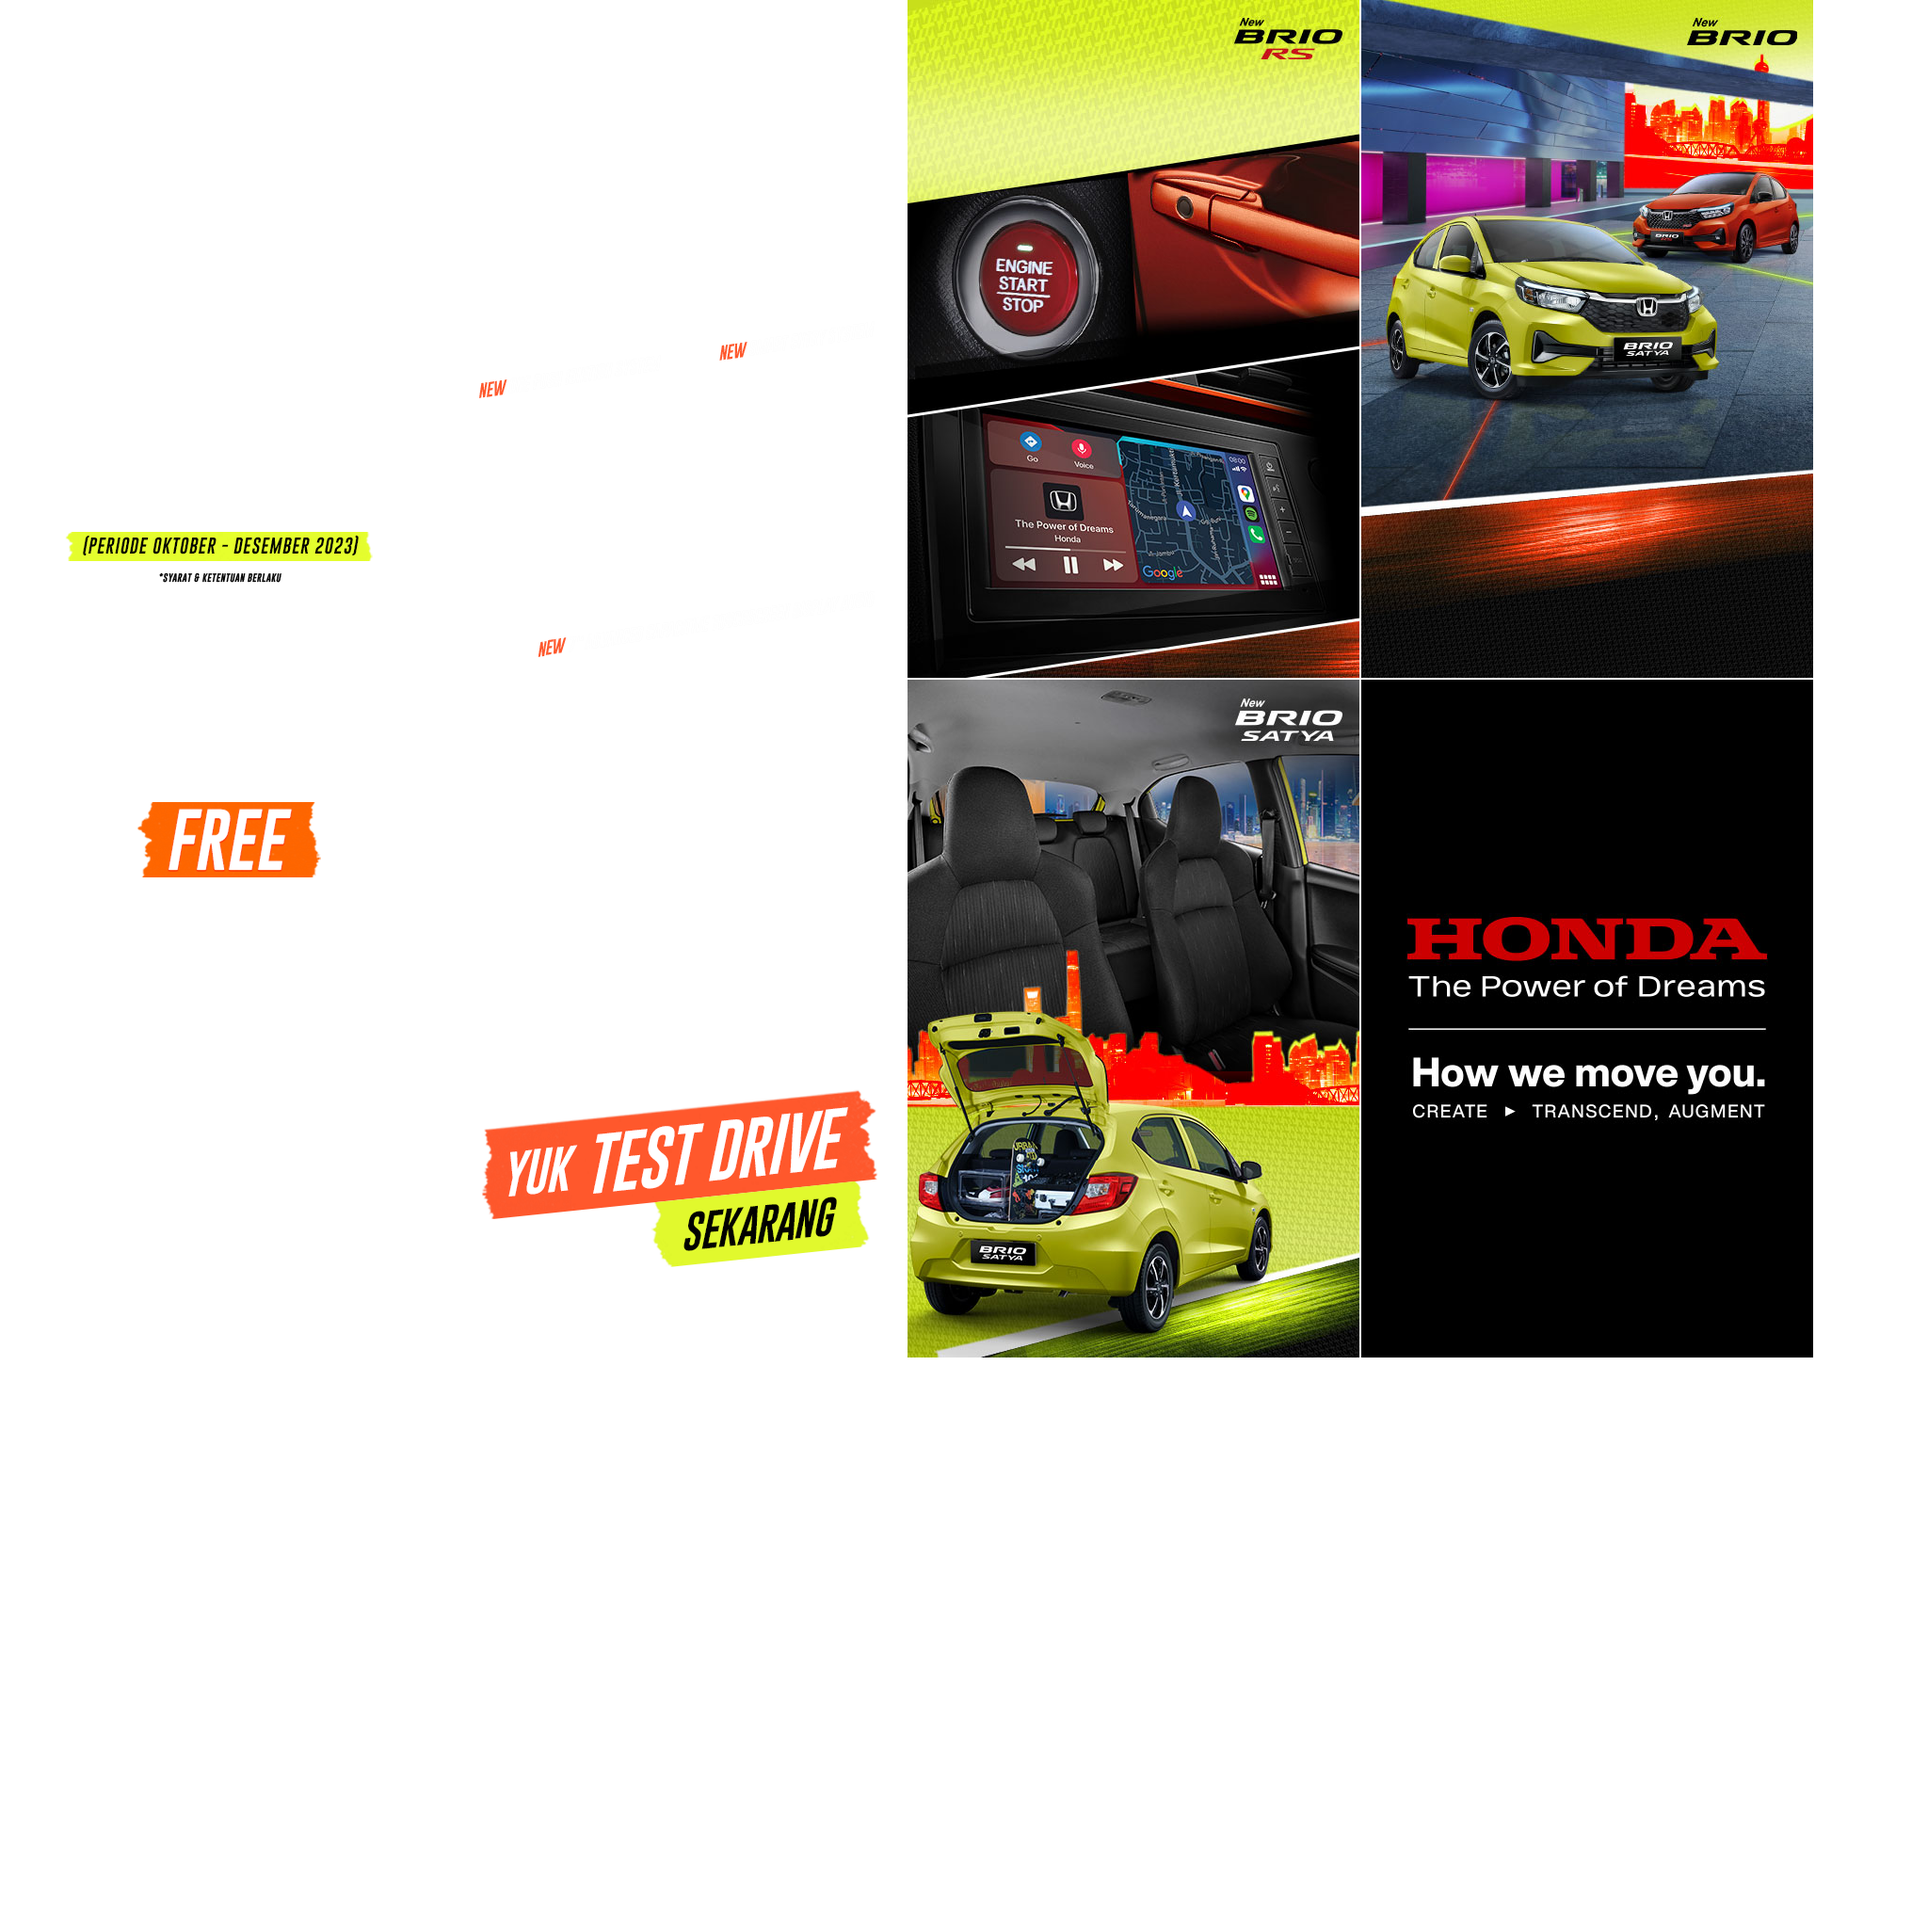
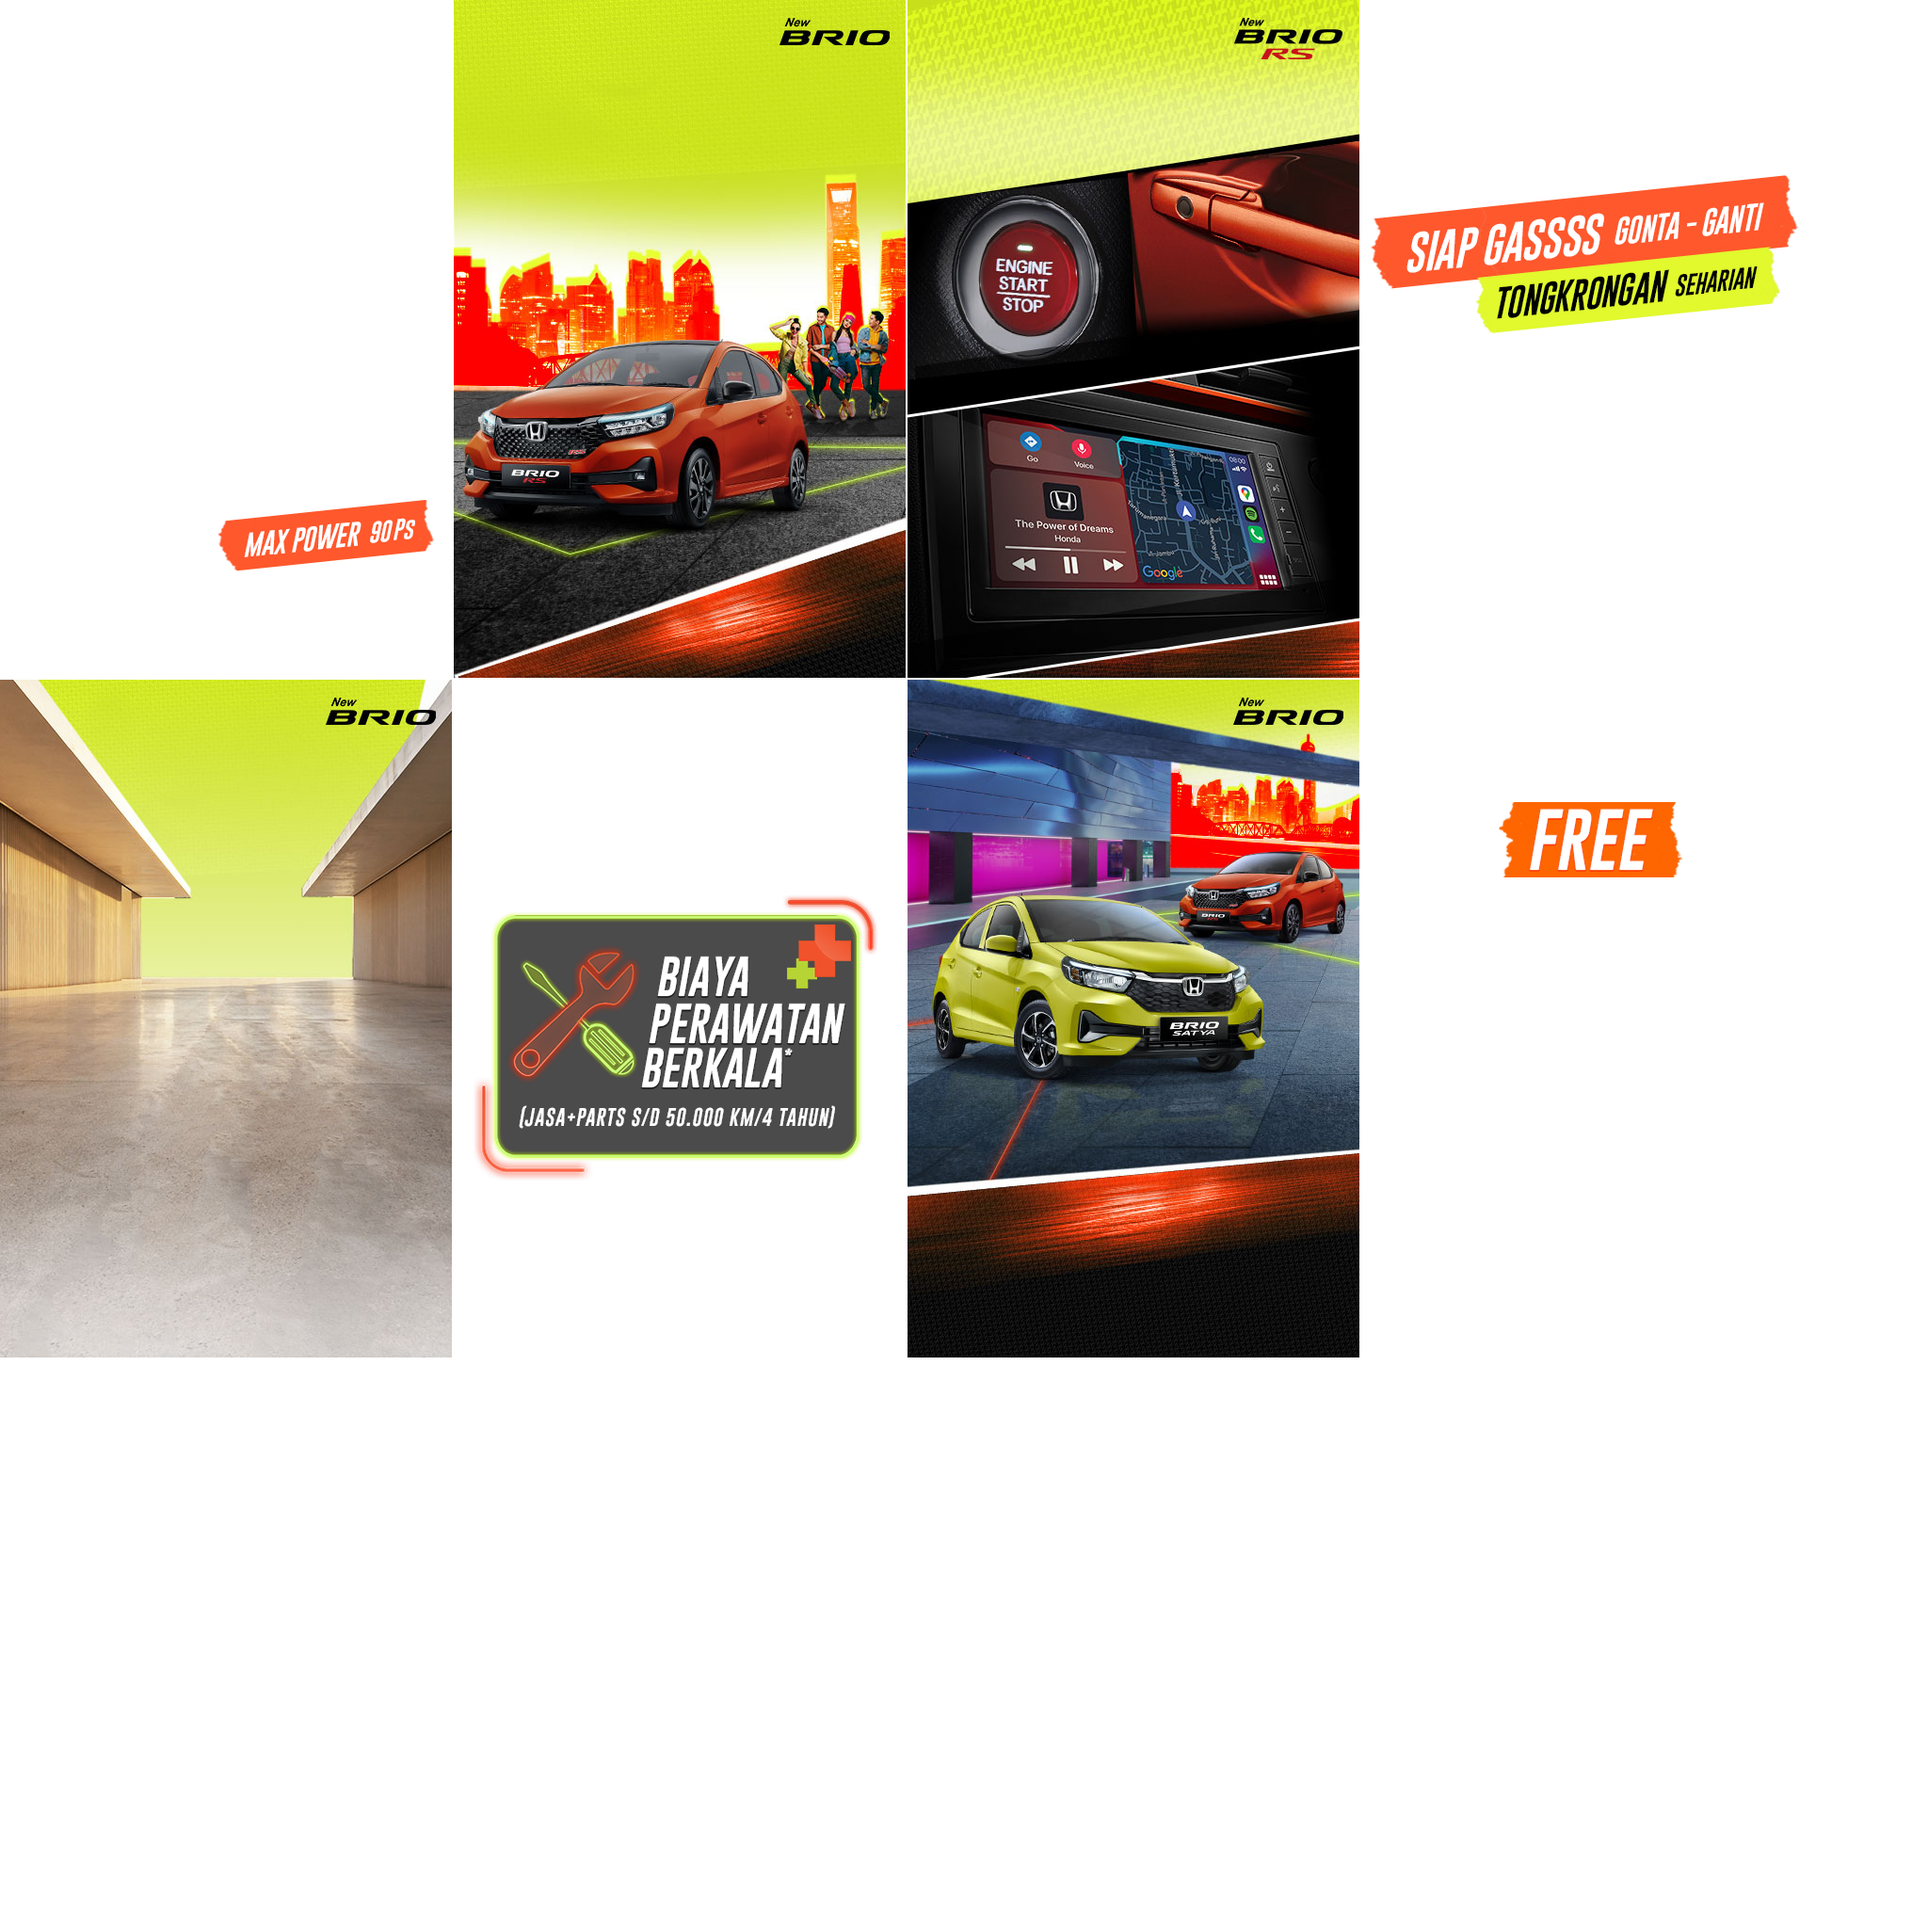
awd

diff --git a/idntimes/cpc/honda/brio-november/src/320x480/index.js b/idntimes/cpc/honda/brio-november/src/320x480/index.js
@@ -3,9 +3,9 @@
 var p; // shortcut to reference prototypes
 var lib={};var ss={};var img={};
 lib.ssMetadata = [
-		{name:"index_atlas_", frames: [[964,0,480,720],[482,0,480,720],[964,722,480,720],[0,722,480,720],[0,0,480,720],[1446,0,480,720],[482,722,480,720],[1446,722,480,720]]},
-		{name:"index_atlas_2", frames: [[1446,722,480,720],[0,722,480,720],[482,722,480,720],[0,0,480,720],[964,722,480,720],[482,0,480,720],[1446,0,480,720],[964,0,480,720]]},
-		{name:"index_atlas_3", frames: [[0,0,480,720],[482,0,480,720]]}
+		{name:"index_atlas_", frames: [[482,0,480,720],[964,0,480,720],[1446,0,480,720],[0,0,480,720],[0,722,480,720],[1446,722,480,720],[482,722,480,720],[964,722,480,720]]},
+		{name:"index_atlas_2", frames: [[964,0,480,720],[964,722,480,720],[0,722,480,720],[482,0,480,720],[1446,0,480,720],[482,722,480,720],[0,0,480,720],[1446,722,480,720]]},
+		{name:"index_atlas_3", frames: [[0,0,480,720],[0,722,480,720],[482,0,480,720]]}
 ];
 
 
@@ -21,14 +21,14 @@ lib.ssMetadata = [
 
 
 (lib._1text = function() {
-	this.initialize(ss["index_atlas_3"]);
-	this.gotoAndStop(1);
+	this.initialize(ss["index_atlas_2"]);
+	this.gotoAndStop(0);
 }).prototype = p = new cjs.Sprite();
 
 
 
 (lib._2bg = function() {
-	this.initialize(ss["index_atlas_2"]);
+	this.initialize(ss["index_atlas_"]);
 	this.gotoAndStop(0);
 }).prototype = p = new cjs.Sprite();
 
@@ -43,100 +43,135 @@ lib.ssMetadata = [
 
 (lib._3bg = function() {
 	this.initialize(ss["index_atlas_"]);
-	this.gotoAndStop(0);
+	this.gotoAndStop(1);
 }).prototype = p = new cjs.Sprite();
 
 
 
 (lib._3fiturtext = function() {
-	this.initialize(ss["index_atlas_"]);
-	this.gotoAndStop(1);
+	this.initialize(ss["index_atlas_2"]);
+	this.gotoAndStop(2);
 }).prototype = p = new cjs.Sprite();
 
 
 
 (lib._3text = function() {
 	this.initialize(ss["index_atlas_2"]);
-	this.gotoAndStop(2);
+	this.gotoAndStop(3);
 }).prototype = p = new cjs.Sprite();
 
 
 
 (lib._4bg = function() {
-	this.initialize(ss["index_atlas_"]);
-	this.gotoAndStop(2);
+	this.initialize(ss["index_atlas_2"]);
+	this.gotoAndStop(4);
 }).prototype = p = new cjs.Sprite();
 
 
 
 (lib._4text = function() {
 	this.initialize(ss["index_atlas_2"]);
-	this.gotoAndStop(3);
+	this.gotoAndStop(5);
 }).prototype = p = new cjs.Sprite();
 
 
 
 (lib._5bg = function() {
 	this.initialize(ss["index_atlas_2"]);
-	this.gotoAndStop(4);
-}).prototype = p = new cjs.Sprite();
-
-
-
-(lib._5text = function() {
-	this.initialize(ss["index_atlas_2"]);
-	this.gotoAndStop(5);
-}).prototype = p = new cjs.Sprite();
-
-
-
-(lib._6bg = function() {
-	this.initialize(ss["index_atlas_2"]);
 	this.gotoAndStop(6);
 }).prototype = p = new cjs.Sprite();
 
 
 
-(lib._6free = function() {
+(lib._5text = function() {
+	this.initialize(ss["index_atlas_"]);
+	this.gotoAndStop(2);
+}).prototype = p = new cjs.Sprite();
+
+
+
+(lib._5text2 = function() {
 	this.initialize(ss["index_atlas_"]);
 	this.gotoAndStop(3);
 }).prototype = p = new cjs.Sprite();
 
 
 
-(lib._6image = function() {
-	this.initialize(ss["index_atlas_2"]);
-	this.gotoAndStop(7);
-}).prototype = p = new cjs.Sprite();
-
-
-
-(lib._6periode = function() {
+(lib._6bg = function() {
 	this.initialize(ss["index_atlas_"]);
 	this.gotoAndStop(4);
 }).prototype = p = new cjs.Sprite();
 
 
 
-(lib._7bg = function() {
+(lib._6free = function() {
 	this.initialize(ss["index_atlas_"]);
 	this.gotoAndStop(5);
 }).prototype = p = new cjs.Sprite();
 
 
 
-(lib._7text = function() {
+(lib._6image = function() {
 	this.initialize(ss["index_atlas_"]);
 	this.gotoAndStop(6);
 }).prototype = p = new cjs.Sprite();
 
 
 
-(lib.end = function() {
+(lib._6periode = function() {
+	this.initialize(ss["index_atlas_2"]);
+	this.gotoAndStop(7);
+}).prototype = p = new cjs.Sprite();
+
+
+
+(lib._7bg = function() {
 	this.initialize(ss["index_atlas_"]);
 	this.gotoAndStop(7);
 }).prototype = p = new cjs.Sprite();
 
+
+
+(lib._7text = function() {
+	this.initialize(ss["index_atlas_3"]);
+	this.gotoAndStop(1);
+}).prototype = p = new cjs.Sprite();
+
+
+
+(lib.end = function() {
+	this.initialize(ss["index_atlas_3"]);
+	this.gotoAndStop(2);
+}).prototype = p = new cjs.Sprite();
+
+
+
+(lib.Tween39 = function(mode,startPosition,loop) {
+	this.initialize(mode,startPosition,loop,{});
+
+	// Layer_1
+	this.instance = new lib._5text2();
+	this.instance.parent = this;
+	this.instance.setTransform(-160,-240,0.6667,0.6667);
+
+	this.timeline.addTween(cjs.Tween.get(this.instance).wait(1));
+
+}).prototype = p = new cjs.MovieClip();
+p.nominalBounds = new cjs.Rectangle(-160,-240,320,480);
+
+
+(lib.Tween38 = function(mode,startPosition,loop) {
+	this.initialize(mode,startPosition,loop,{});
+
+	// Layer_1
+	this.instance = new lib._5text2();
+	this.instance.parent = this;
+	this.instance.setTransform(-160,-240,0.6667,0.6667);
+
+	this.timeline.addTween(cjs.Tween.get(this.instance).wait(1));
+
+}).prototype = p = new cjs.MovieClip();
+p.nominalBounds = new cjs.Rectangle(-160,-240,320,480);
 
 
 (lib.Tween37 = function(mode,startPosition,loop) {
@@ -628,6 +663,26 @@ p.nominalBounds = new cjs.Rectangle(-160,-240,320,480);
 }).prototype = p = new cjs.MovieClip();
 
 
+(lib.Scene_1_text2 = function(mode,startPosition,loop) {
+	this.initialize(mode,startPosition,loop,{});
+
+	// text2
+	this.instance = new lib.Tween38("synched",0);
+	this.instance.parent = this;
+	this.instance.setTransform(325.1,223.2);
+	this.instance.alpha = 0;
+	this.instance._off = true;
+
+	this.instance_1 = new lib.Tween39("synched",0);
+	this.instance_1.parent = this;
+	this.instance_1.setTransform(160,240);
+
+	this.timeline.addTween(cjs.Tween.get({}).to({state:[]}).to({state:[{t:this.instance}]},204).to({state:[{t:this.instance_1}]},5).wait(37));
+	this.timeline.addTween(cjs.Tween.get(this.instance).wait(204).to({_off:false},0).to({_off:true,x:160,y:240,alpha:1},5,cjs.Ease.cubicOut).wait(37));
+
+}).prototype = p = new cjs.MovieClip();
+
+
 (lib.Scene_1_periode = function(mode,startPosition,loop) {
 	this.initialize(mode,startPosition,loop,{});
 
@@ -1104,6 +1159,19 @@ p.nominalBounds = new cjs.Rectangle(-160,-240,320,480);
 
 	this.timeline.addTween(cjs.Tween.get(this.bg_1).wait(244).to({_off:true},52).wait(64));
 
+	// text2_obj_
+	this.text2 = new lib.Scene_1_text2();
+	this.text2.name = "text2";
+	this.text2.parent = this;
+	this.text2.depth = 0;
+	this.text2.isAttachedToCamera = 0
+	this.text2.isAttachedToMask = 0
+	this.text2.layerDepth = 0
+	this.text2.layerIndex = 7
+	this.text2.maskLayerName = 0
+
+	this.timeline.addTween(cjs.Tween.get(this.text2).wait(209).to({_off:true},37).wait(114));
+
 	// hl_obj_
 	this.hl_1 = new lib.Scene_1_hl_1();
 	this.hl_1.name = "hl_1";
@@ -1112,7 +1180,7 @@ p.nominalBounds = new cjs.Rectangle(-160,-240,320,480);
 	this.hl_1.isAttachedToCamera = 0
 	this.hl_1.isAttachedToMask = 0
 	this.hl_1.layerDepth = 0
-	this.hl_1.layerIndex = 7
+	this.hl_1.layerIndex = 8
 	this.hl_1.maskLayerName = 0
 
 	this.timeline.addTween(cjs.Tween.get(this.hl_1).wait(207).to({_off:true},39).wait(114));
@@ -1125,7 +1193,7 @@ p.nominalBounds = new cjs.Rectangle(-160,-240,320,480);
 	this.bg_2.isAttachedToCamera = 0
 	this.bg_2.isAttachedToMask = 0
 	this.bg_2.layerDepth = 0
-	this.bg_2.layerIndex = 8
+	this.bg_2.layerIndex = 9
 	this.bg_2.maskLayerName = 0
 
 	this.timeline.addTween(cjs.Tween.get(this.bg_2).wait(196).to({_off:true},50).wait(114));
@@ -1138,7 +1206,7 @@ p.nominalBounds = new cjs.Rectangle(-160,-240,320,480);
 	this.hl_2.isAttachedToCamera = 0
 	this.hl_2.isAttachedToMask = 0
 	this.hl_2.layerDepth = 0
-	this.hl_2.layerIndex = 9
+	this.hl_2.layerIndex = 10
 	this.hl_2.maskLayerName = 0
 
 	this.timeline.addTween(cjs.Tween.get(this.hl_2).wait(158).to({_off:true},42).wait(160));
@@ -1151,7 +1219,7 @@ p.nominalBounds = new cjs.Rectangle(-160,-240,320,480);
 	this.bg_3.isAttachedToCamera = 0
 	this.bg_3.isAttachedToMask = 0
 	this.bg_3.layerDepth = 0
-	this.bg_3.layerIndex = 10
+	this.bg_3.layerIndex = 11
 	this.bg_3.maskLayerName = 0
 
 	this.timeline.addTween(cjs.Tween.get(this.bg_3).wait(148).to({_off:true},52).wait(160));
@@ -1164,7 +1232,7 @@ p.nominalBounds = new cjs.Rectangle(-160,-240,320,480);
 	this.hl_3.isAttachedToCamera = 0
 	this.hl_3.isAttachedToMask = 0
 	this.hl_3.layerDepth = 0
-	this.hl_3.layerIndex = 11
+	this.hl_3.layerIndex = 12
 	this.hl_3.maskLayerName = 0
 
 	this.timeline.addTween(cjs.Tween.get(this.hl_3).wait(112).to({_off:true},38).wait(210));
@@ -1177,7 +1245,7 @@ p.nominalBounds = new cjs.Rectangle(-160,-240,320,480);
 	this.fiturtext.isAttachedToCamera = 0
 	this.fiturtext.isAttachedToMask = 0
 	this.fiturtext.layerDepth = 0
-	this.fiturtext.layerIndex = 12
+	this.fiturtext.layerIndex = 13
 	this.fiturtext.maskLayerName = 0
 
 	this.timeline.addTween(cjs.Tween.get(this.fiturtext).wait(109).to({_off:true},41).wait(210));
@@ -1190,7 +1258,7 @@ p.nominalBounds = new cjs.Rectangle(-160,-240,320,480);
 	this.bg_4.isAttachedToCamera = 0
 	this.bg_4.isAttachedToMask = 0
 	this.bg_4.layerDepth = 0
-	this.bg_4.layerIndex = 13
+	this.bg_4.layerIndex = 14
 	this.bg_4.maskLayerName = 0
 
 	this.timeline.addTween(cjs.Tween.get(this.bg_4).wait(99).to({_off:true},51).wait(210));
@@ -1203,7 +1271,7 @@ p.nominalBounds = new cjs.Rectangle(-160,-240,320,480);
 	this.hl_4.isAttachedToCamera = 0
 	this.hl_4.isAttachedToMask = 0
 	this.hl_4.layerDepth = 0
-	this.hl_4.layerIndex = 14
+	this.hl_4.layerIndex = 15
 	this.hl_4.maskLayerName = 0
 
 	this.timeline.addTween(cjs.Tween.get(this.hl_4).wait(63).to({_off:true},38).wait(259));
@@ -1216,7 +1284,7 @@ p.nominalBounds = new cjs.Rectangle(-160,-240,320,480);
 	this.bg_5.isAttachedToCamera = 0
 	this.bg_5.isAttachedToMask = 0
 	this.bg_5.layerDepth = 0
-	this.bg_5.layerIndex = 15
+	this.bg_5.layerIndex = 16
 	this.bg_5.maskLayerName = 0
 
 	this.timeline.addTween(cjs.Tween.get(this.bg_5).wait(52).to({_off:true},49).wait(259));
@@ -1229,7 +1297,7 @@ p.nominalBounds = new cjs.Rectangle(-160,-240,320,480);
 	this.hl_5.isAttachedToCamera = 0
 	this.hl_5.isAttachedToMask = 0
 	this.hl_5.layerDepth = 0
-	this.hl_5.layerIndex = 16
+	this.hl_5.layerIndex = 17
 	this.hl_5.maskLayerName = 0
 
 	this.timeline.addTween(cjs.Tween.get(this.hl_5).wait(16).to({_off:true},39).wait(305));
@@ -1243,7 +1311,7 @@ p.nominalBounds = new cjs.Rectangle(-160,-240,320,480);
 	this.bg_6.isAttachedToCamera = 0
 	this.bg_6.isAttachedToMask = 0
 	this.bg_6.layerDepth = 0
-	this.bg_6.layerIndex = 17
+	this.bg_6.layerIndex = 18
 	this.bg_6.maskLayerName = 0
 
 	this.timeline.addTween(cjs.Tween.get(this.bg_6).wait(47).to({_off:true},8).wait(305));
